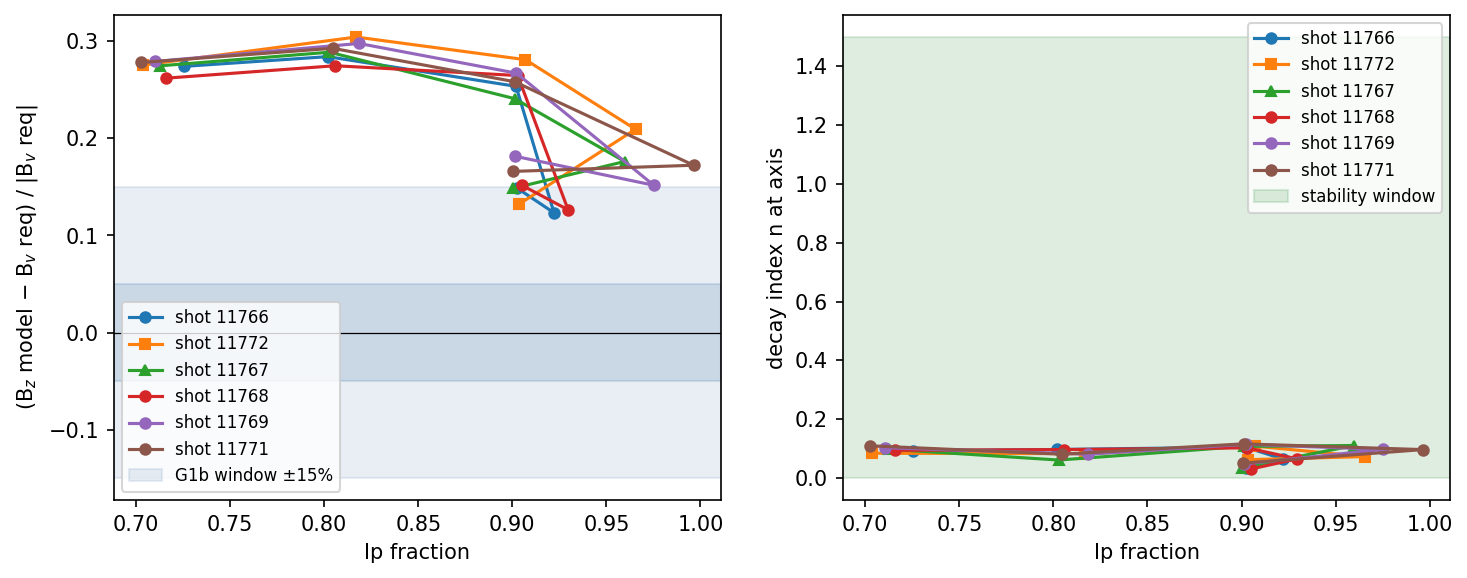
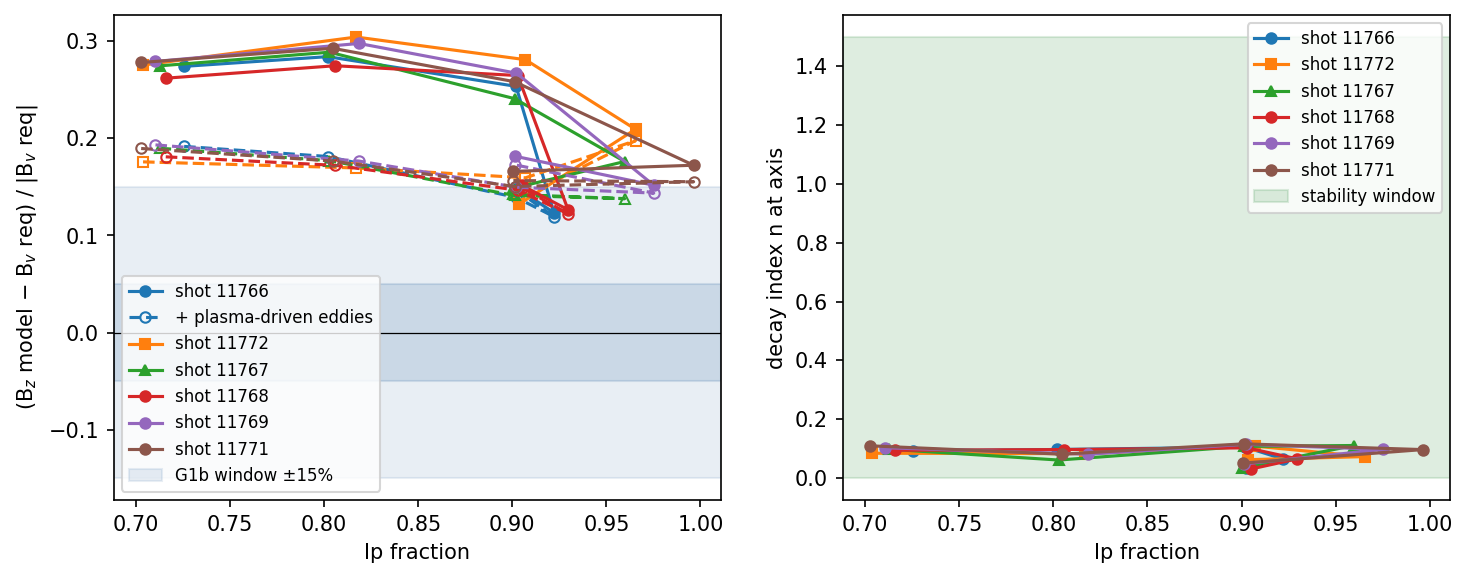
feat(scripts): plasma-driven vessel-eddy drive folded into the force-balance diagnosis — Lenz image currents close ramp deficit 27.5%->17.6%, ~0 at flat-top; conductors verified present vs the L2 pf_passive IDS

Changed region(s): [[0.0613, 0.4671, 0.2761, 0.6851], [0.092, 0.2491, 0.4908, 0.4048], [0.3988, 0.2491, 0.4294, 0.2803]]

diff --git a/scripts/force_balance_diagnosis.py b/scripts/force_balance_diagnosis.py
@@ -113,14 +113,25 @@ def _interp_ref(ref: dict[str, np.ndarray], key: str, t: float) -> float:
     return float(np.interp(t, tt[ok], yy[ok]))
 
 
-def _vessel_currents(table, grid, i_pf_full, channels, times):
-    """Vessel circuit currents from the measured coil drives, quiescent start.
+def _vessel_currents(
+    table, grid, i_pf_full, channels, times, ip_amperes=None, axis_rz=None
+):
+    """Vessel circuit currents from the measured drives, quiescent start.
 
     Exact-ZOH eigenmode integration of the passive circuit system driven by
     the full measured coil history — the same prediction the screening gate
-    folds into its truth chain.  Returns ``(circuits, i_vessel (T, P))``.
+    folds into its truth chain.  When ``ip_amperes`` (T,) and ``axis_rz``
+    (T, 2) are given, the PLASMA current's own flux swing drives the vessel
+    too (a filament at the referee axis trace): the Lenz-anti-parallel image
+    currents this induces during the fast Ip ramp contribute confining
+    vertical field at the plasma — a term absent from coil-only predictions
+    (lead hypothesis, quantified by this sweep).  Returns ``(circuits,
+    i_vessel_coil (T, P), i_vessel_full (T, P))`` — coil-only and
+    coil+plasma-driven states (identical when the plasma drive is omitted).
     """
     from scipy.linalg import eigh  # noqa: PLC0415
+
+    from imas_ambix.gs.operator import greens_psi  # noqa: PLC0415
 
     vsys = build_passive_circuit_system(table, grid)
     chan_idx = {ch: j for j, ch in enumerate(vsys.coil_channels)}
@@ -130,9 +141,40 @@ def _vessel_currents(table, grid, i_pf_full, channels, times):
             m_vc[:, j] = vsys.m_coil_circ[:, chan_idx[chan]]
     w, vv = eigh(np.diag(vsys.r_diag), vsys.lmat)
     tau = 1.0 / np.clip(w, 1e-12, None)
-    psi_m = (i_pf_full @ m_vc.T) @ vv
-    a, _u = integrate_eddy_ode(tau, times, psi_m)
-    return vsys.circuits, a @ vv.T
+    psi_coil = i_pf_full @ m_vc.T
+    a_coil, _u = integrate_eddy_ode(tau, times, psi_coil @ vv)
+    i_coil = a_coil @ vv.T
+    if ip_amperes is None or axis_rz is None:
+        return vsys.circuits, i_coil, i_coil
+
+    # plasma→circuit linkage per slice: xmult-weighted ψ per ampere of a
+    # loop at the (time-varying) axis, vectorised over all passive filaments
+    by_circ: dict[int, list] = {}
+    for f in table.pf_filaments:
+        by_circ.setdefault(f.circuit, []).append(f)
+    fr, fz, fw, ci = [], [], [], []
+    for i, c in enumerate(vsys.circuits):
+        for f in by_circ[int(c)]:
+            fr.append(f.r)
+            fz.append(f.z)
+            fw.append(f.xmult)
+            ci.append(i)
+    fr = np.array(fr)
+    fz = np.array(fz)
+    fw = np.array(fw)
+    ci = np.array(ci)
+    psi_plasma = np.zeros((times.size, vsys.n_circuits))
+    for t in range(times.size):
+        if ip_amperes[t] == 0.0 or not np.all(np.isfinite(axis_rz[t])):
+            continue
+        psi = np.atleast_1d(
+            greens_psi(fr, fz, float(axis_rz[t, 0]), float(axis_rz[t, 1]))
+        )
+        psi_plasma[t] = np.bincount(
+            ci, weights=fw * psi, minlength=vsys.n_circuits
+        ) * float(ip_amperes[t])
+    a_full, _u = integrate_eddy_ode(tau, times, (psi_coil + psi_plasma) @ vv)
+    return vsys.circuits, i_coil, a_full @ vv.T
 
 
 def _select_slices(
@@ -206,9 +248,6 @@ def diagnose_shot(shot: int) -> dict | None:
         }
         i_pf[t] = fwd.assemble_pf_currents(vals)
 
-    grid = EquilibriumGrid.from_table(table, nr=65, nz=97)
-    circuits, i_vessel = _vessel_currents(table, grid, i_pf, fwd.pf_amc_channels, times)
-
     ip_ka = x[:, ip_col]
     tt = ref["time"]
     ok = np.isfinite(tt) & np.isfinite(ref["magnetic_axis_r"])
@@ -216,6 +255,22 @@ def diagnose_shot(shot: int) -> dict | None:
         (times >= tt[ok][0]) & (times <= tt[ok][-1])
         if ok.sum() >= 2
         else np.zeros_like(plasma_on)
+    )
+
+    # plasma filament trace for the vessel drive: measured Ip at the referee
+    # axis (np.interp clamps outside coverage — the early-ramp linkage is then
+    # approximate, but those eddies decay on the vessel τ ≤ 35 ms)
+    ip_amp_t = np.where(np.isfinite(ip_ka), ip_ka, 0.0) * 1e3
+    okz = np.isfinite(tt) & np.isfinite(ref["magnetic_axis_z"])
+    axis_rz = np.column_stack(
+        [
+            np.interp(times, tt[ok], ref["magnetic_axis_r"][ok]),
+            np.interp(times, tt[okz], ref["magnetic_axis_z"][okz]),
+        ]
+    )
+    grid = EquilibriumGrid.from_table(table, nr=65, nz=97)
+    circuits, i_vessel, i_vessel_full = _vessel_currents(
+        table, grid, i_pf, fwd.pf_amc_channels, times, ip_amp_t, axis_rz
     )
     picks = _select_slices(ip_ka, plasma_on, covered)
     usable = plasma_on & covered
@@ -248,6 +303,10 @@ def diagnose_shot(shot: int) -> dict | None:
             groups[g] = groups.get(g, 0.0) + float(c)
         groups["vessel"] = float(pas_line[j_ax] @ i_vessel[k])
         bz_axis = float(sum(groups.values()))
+        # the plasma-driven eddy share, reported ALONGSIDE the gate columns —
+        # the pre-declared gates read rel_discrepancy (coil + coil-driven
+        # eddies) unchanged; this column quantifies the missing-drive term
+        bz_eddy_plasma = float(pas_line[j_ax] @ (i_vessel_full[k] - i_vessel[k]))
 
         betap_li2 = (
             betap + 0.5 * li
@@ -279,6 +338,12 @@ def diagnose_shot(shot: int) -> dict | None:
                 "bz_model_axis": bz_axis,
                 "bv_required": bv_req,
                 "rel_discrepancy": rel,
+                "bz_eddy_plasma": bz_eddy_plasma,
+                "rel_discrepancy_with_plasma_eddies": (
+                    (bz_axis + bz_eddy_plasma - bv_req) / abs(bv_req)
+                    if np.isfinite(bv_req)
+                    else float("nan")
+                ),
                 "sign_error": bool(np.isfinite(bv_req) and bz_axis * bv_req < 0.0),
                 "decay_index_axis": float(n_line[j_ax]),
                 "waterfall": {g: float(groups[g]) for g in GROUP_ORDER},
@@ -431,9 +496,29 @@ def evaluate_gates(shot_results: list[dict], probe_rows: list[dict]) -> dict:
         verdict = "coil-side"
     elif g1b:
         verdict = "solve-side"
+    ramp = [
+        r
+        for s in shot_results
+        for r in s["rows"]
+        if r["tag"].startswith("ramp") and np.isfinite(r["rel_discrepancy"])
+    ]
+
+    def _med(rows_, key):
+        vals = [r[key] for r in rows_ if np.isfinite(r.get(key, float("nan")))]
+        return float(np.median(vals)) if vals else float("nan")
+
     return {
         "flat_top_slices": len(flat),
         "median_abs_rel_discrepancy": med_abs_rel,
+        # reported diagnostics (NOT gate inputs): the missing plasma-driven
+        # vessel-eddy term folded in
+        "median_rel_ramp": _med(ramp, "rel_discrepancy"),
+        "median_rel_ramp_with_plasma_eddies": _med(
+            ramp, "rel_discrepancy_with_plasma_eddies"
+        ),
+        "median_rel_flat_with_plasma_eddies": _med(
+            flat, "rel_discrepancy_with_plasma_eddies"
+        ),
         "sign_error_any": sign,
         "median_top2_share": float(np.median(top2)) if top2.size else float("nan"),
         "waterfall_localizes": localizes,
@@ -473,7 +558,7 @@ def make_figures(shot_results: list[dict], probe_rows: list[dict]) -> None:
     # (2) relative discrepancy + decay index vs Ip fraction
     fig, (ax1, ax2) = plt.subplots(1, 2, figsize=(11.5, 4.2))
     marker = {"11766": "o", "11772": "s", "11767": "^"}
-    for s in shot_results:
+    for si, s in enumerate(shot_results):
         rr = [r for r in s["rows"] if np.isfinite(r["rel_discrepancy"])]
         ax1.plot(
             [r["ip_frac"] for r in rr],
@@ -482,6 +567,16 @@ def make_figures(shot_results: list[dict], probe_rows: list[dict]) -> None:
             ls="-",
             ms=5,
             label=f"shot {s['shot']}",
+        )
+        ax1.plot(
+            [r["ip_frac"] for r in rr],
+            [r["rel_discrepancy_with_plasma_eddies"] for r in rr],
+            marker.get(str(s["shot"]), "o"),
+            ls="--",
+            ms=5,
+            mfc="none",
+            color=f"C{si}",
+            label="+ plasma-driven eddies" if si == 0 else None,
         )
         ax2.plot(
             [r["ip_frac"] for r in s["rows"]],
@@ -575,11 +670,12 @@ def main() -> int:
             shot_results.append(r)
             for row in r["rows"]:
                 logger.info(
-                    "%d %s Ip=%.0fkA rel=%+.3f n=%.2f top2=%.2f (%s)",
+                    "%d %s Ip=%.0fkA rel=%+.3f rel+eddy=%+.3f n=%.2f top2=%.2f (%s)",
                     row["shot"],
                     row["tag"],
                     row["ip_amperes"] / 1e3,
                     row["rel_discrepancy"],
+                    row["rel_discrepancy_with_plasma_eddies"],
                     row["decay_index_axis"],
                     row["top2_share"],
                     "+".join(row["top2_groups"]),
